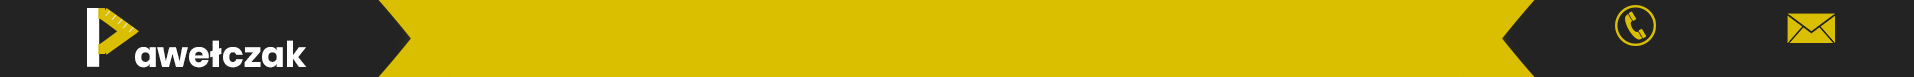
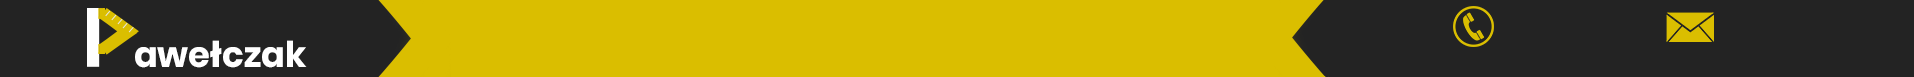
Fix e-mail displaying outside navigation bar

Changed region(s): [[0.6473, 0.0, 0.8015, 1.0], [0.8323, 0.0779, 0.8939, 0.5974], [0.9248, 0.1558, 0.9864, 0.5714]]

diff --git a/aboutUs.html b/aboutUs.html
@@ -3,8 +3,7 @@
 
 <head>
     <title>Pawełczak - O firmie</title>
-    <meta charset="utf-8">
-    <meta name="viewport" content="width=device-width, initial-scale=1">
+    <meta charset="UTF-8" name="viewport" content="width=device-width, initial-scale=1">
     <link rel="shortcut icon" type="image/x-icon" href="Resources/StructureImages/logo.png" />
     <link rel="stylesheet" href="CSS/style.css">
     <link rel="stylesheet" type="text/css" href="CSS/abStyle.css" />
@@ -44,17 +43,17 @@
                     </div>
                 </div>
 
-                <div class="navbarBox" id="navbarTelephoneBox" style="width:25%">
+                <div class="navbarBox" id="navbarTelephoneBox" style="width:35%">
                     <div class="navbarRow" style="margin-left:20%">
-                        <div class="navbarBox" id="navbarTelephone" style="width:35%">
-                            <a href="tel:+48 696 399 748"><p>+48 696 399 748</p></a>
-                        </div>
+                         <div class="navbarBox" id="navbarTelephone" style="width:25%">
+                         <a href="tel:+48 696 399 748"><p>+48 696 399 748</p></a>
+                         </div>
 
-                        <div class="navbarBox" id="navbarTelephone">
-                            <p>pawelczak63@gmail.com</p>
-                        </div>
-                    </div>
-                </div>
+                         <div class="navbarBox" id="navbarTelephone">
+                             <p>pawelczak.slusarstwo@gmail.com</p>
+                         </div>
+                     </div>
+                 </div>
 
             </div>   
         </div>
@@ -123,7 +122,7 @@
                 <div class="contactBox" id="col3" >
                     <div>
                         <p>Tel: +48 696 399 748</p>
-                        <p>e-mail: pawelczak63@gmail.com</p>
+                        <p>e-mail: pawelczak.slusarstwo@gmail.com</p>
                     </div>
                     
                 </div>

diff --git a/projects.html b/projects.html
@@ -3,7 +3,7 @@
 
 <head>
     <title>Pawełczak - Realizacje</title>
-    <meta name="viewport" content="width=device-width, initial-scale=1">    
+    <meta charset="UTF-8" name="viewport" content="width=device-width, initial-scale=1">    
     <link rel="shortcut icon" type="image/x-icon" href="Resources/StructureImages/logo.png" />
     <link rel="stylesheet" href="CSS/style.css">
     <link rel="stylesheet" type="text/css" href="CSS/conStyle.css" />
@@ -42,16 +42,17 @@
                     </div>
                 </div>
 
-                <div class="navbarBox" id="navbarTelephoneBox" style="width:25%">
+                <div class="navbarBox" id="navbarTelephoneBox" style="width:35%">
                     <div class="navbarRow" style="margin-left:20%">
-                        <div class="navbarBox" id="navbarTelephone" style="width:35%">
-                            <a href="tel:+48 696 399 748"><p>+48 696 399 748</p></a>
-                        </div>
-                        <div class="navbarBox" id="navbarTelephone">
-                            <p>pawelczak63@gmail.com</p>
-                        </div>
-                    </div>
-                </div>
+                         <div class="navbarBox" id="navbarTelephone" style="width:25%">
+                         <a href="tel:+48 696 399 748"><p>+48 696 399 748</p></a>
+                         </div>
+
+                         <div class="navbarBox" id="navbarTelephone">
+                             <p>pawelczak.slusarstwo@gmail.com</p>
+                         </div>
+                     </div>
+                 </div>
 
             </div>   
         </div>
@@ -734,7 +735,7 @@
                 <div class="contactBox" id="col3" >
                     <div>
                         <p>Tel: +48 696 399 748</p>
-                        <p>e-mail: pawelczak63@gmail.com</p>
+                        <p>e-mail: pawelczak.slusarstwo@gmail.com</p>
                     </div>
                     
                 </div>

diff --git a/contact.html b/contact.html
@@ -3,7 +3,7 @@
 
 <head>
     <title>Pawełczak - Kontakt</title>
-    <meta name="viewport" content="width=device-width, initial-scale=1">
+    <meta charset="UTF-8" name="viewport" content="width=device-width, initial-scale=1">
     <link rel="shortcut icon" type="image/x-icon" href="Resources/StructureImages/logo.png" />
     <link rel="stylesheet" href="CSS/style.css">
     <link rel="stylesheet" type="text/css" href="CSS/conStyle.css" />
@@ -42,17 +42,17 @@
                     </div>
                 </div>
 
-                <div class="navbarBox" id="navbarTelephoneBox" style="width:25%">
+                <div class="navbarBox" id="navbarTelephoneBox" style="width:35%">
                     <div class="navbarRow" style="margin-left:20%">
-                        <div class="navbarBox" id="navbarTelephone" style="width:35%">
-                            <a href="tel:+48 696 399 748"><p>+48 696 399 748</p></a>
-                        </div>
+                         <div class="navbarBox" id="navbarTelephone" style="width:25%">
+                         <a href="tel:+48 696 399 748"><p>+48 696 399 748</p></a>
+                         </div>
 
-                        <div class="navbarBox" id="navbarTelephone">
-                            <p>pawelczak63@gmail.com</p>
-                        </div>
-                    </div>
-                </div>
+                         <div class="navbarBox" id="navbarTelephone">
+                             <p>pawelczak.slusarstwo@gmail.com</p>
+                         </div>
+                     </div>
+                 </div>
 
             </div>   
         </div>
@@ -149,7 +149,7 @@
                 <div class="contactBox" id="col3" >
                     <div>
                         <p>Tel: +48 696 399 748</p>
-                        <p>e-mail: pawelczak63@gmail.com</p>
+                        <p>pawelczak.slusarstwo@gmail.com</p>
                     </div>
                     
                 </div>

diff --git a/index.html b/index.html
@@ -3,7 +3,7 @@
 
 <head>
     <title>Pawełczak - Strona główna</title>
-    <meta name="viewport" content="width=device-width, initial-scale=1">
+    <meta charset="UTF-8" name="viewport" content="width=device-width, initial-scale=1">
     <link rel="shortcut icon" type="image/x-icon" href="Resources/StructureImages/logo.png" />
     <link rel="stylesheet" href="CSS/style.css">
     <link rel="stylesheet" type="text/css" href="CSS/conStyle.css" />
@@ -42,14 +42,14 @@
                         </div>
                     </div>
     
-                    <div class="navbarBox" id="navbarTelephoneBox" style="width:25%">
+                    <div class="navbarBox" id="navbarTelephoneBox" style="width:35%">
                        <div class="navbarRow" style="margin-left:20%">
-                            <div class="navbarBox" id="navbarTelephone" style="width:35%">
+                            <div class="navbarBox" id="navbarTelephone" style="width:25%">
                             <a href="tel:+48 696 399 748"><p>+48 696 399 748</p></a>
                             </div>
 
                             <div class="navbarBox" id="navbarTelephone">
-                                <p>pawelczak63@gmail.com</p>
+                                <p>pawelczak.slusarstwo@gmail.com</p>
                             </div>
                         </div>
                     </div>
@@ -169,7 +169,7 @@
                 <div class="contactBox" id="col3" >
                     <div>
                         <p>Tel: +48 696 399 748</p>
-                        <p>e-mail: pawelczak63@gmail.com</p>
+                        <p>e-mail: pawelczak.slusarstwo@gmail.com</p>
                     </div>
                 </div>
 
